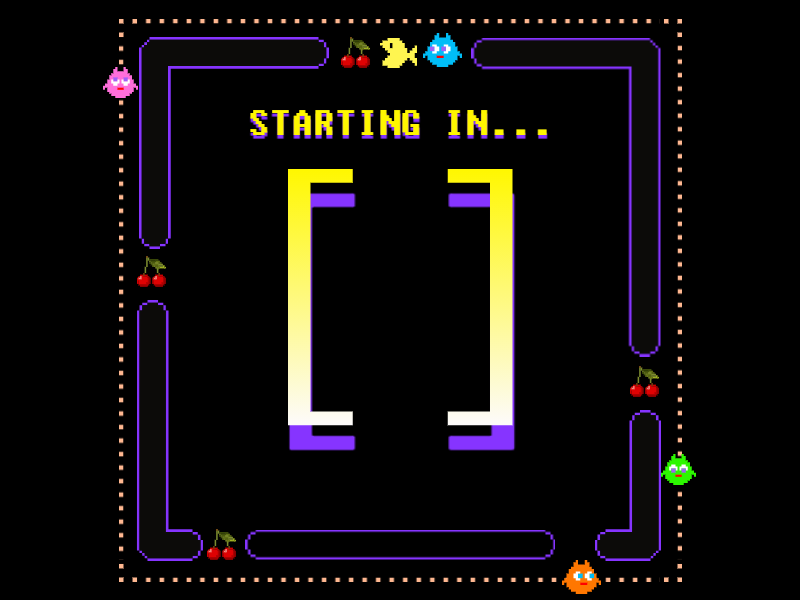
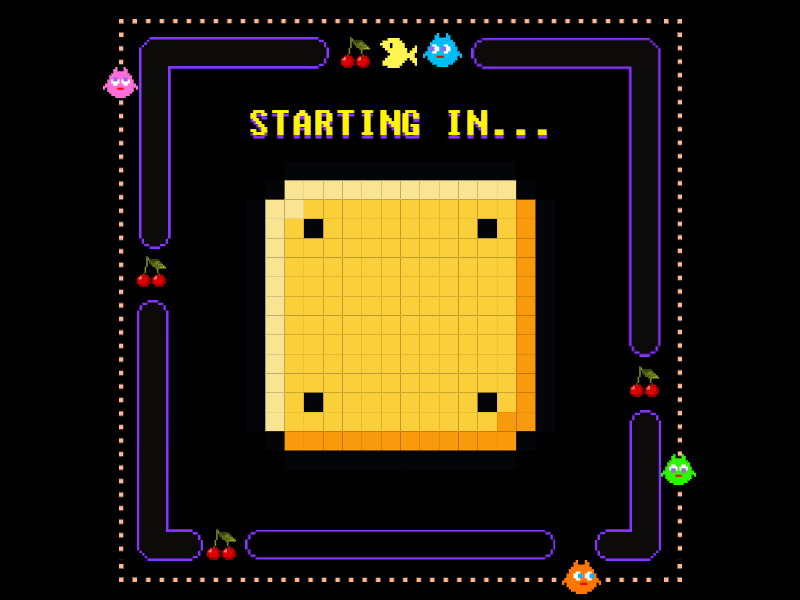
bg

Changed region(s): [[0.3125, 0.27, 0.6875, 0.75]]

diff --git a/local_computer/game.py b/local_computer/game.py
@@ -89,7 +89,7 @@ class Game():
         self.gameExit = False
         self.leaderboard = leaderboard_object
         self.ready = ready_object
-        self.text_font = pygame.font.Font('assets/Roboto-Regular.ttf',20)
+        self.text_font = pygame.font.Font('assets/Roboto-Regular.ttf',30)
 
         self.obstacle_starty = -self.display_height
         self.obstacle_startx = random.randrange(0, self.display_width)
@@ -216,7 +216,7 @@ class Game():
         while int(pygame.time.get_ticks() - start_time)//1000 < 6:
             self.screen.blit(self.Bg4, (0,0))
             text = "START!" if (countdown == 0) else str(countdown)
-            countdown_text, countdown_rect = self.text_objects(text, self.text_font, self.white)
+            countdown_text, countdown_rect = self.text_objects(text, self.text_font, self.black)
             countdown_rect.center = ((self.display_width/2),(self.display_height/2))
             self.screen.blit(countdown_text, countdown_rect)
             if int(pygame.time.get_ticks() - start_time)//1000 > (5-countdown):
